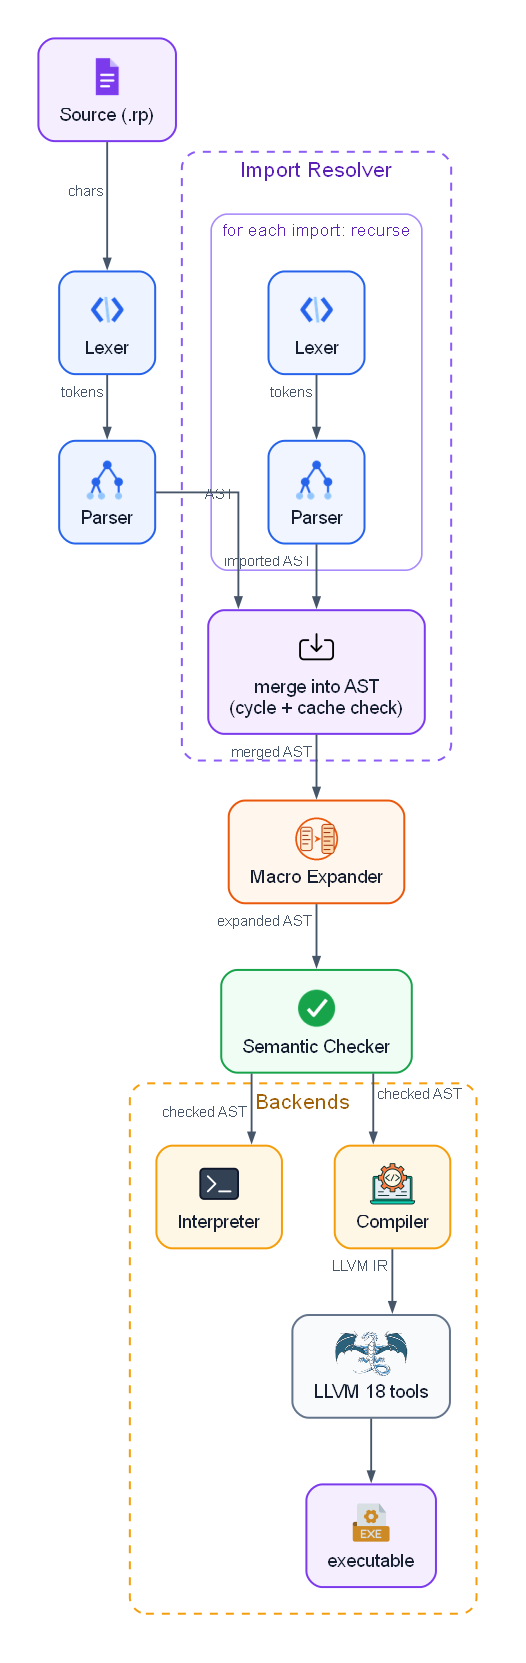
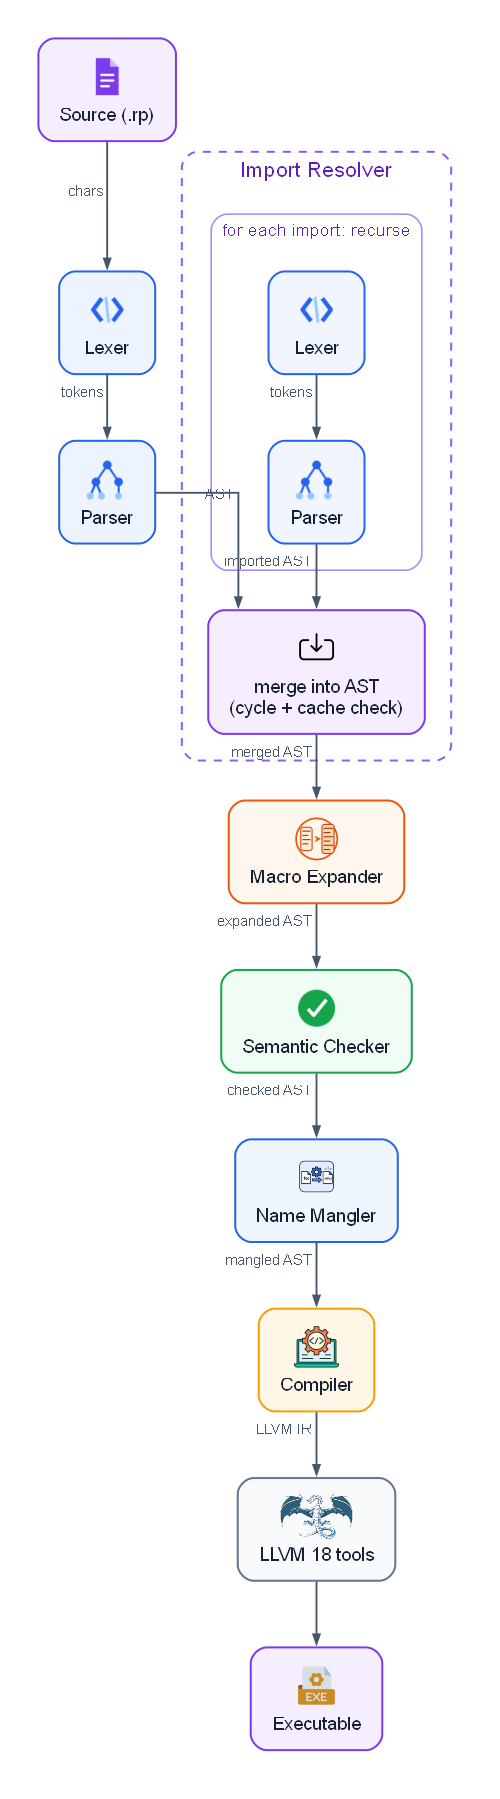
feat: updated compiler pipeline diagram

diff --git a/docs/diagram/generate_diagram.py b/docs/diagram/generate_diagram.py
@@ -77,10 +77,7 @@ with graph.subgraph(name="cluster_import") as import_cluster:
         penwidth="1.5",
         margin="20",
     )
-    import_cluster.attr(
-        "node",
-        fontname="Arial",
-    )
+    import_cluster.attr("node", fontname="Arial")
 
     with import_cluster.subgraph(name="cluster_recursive") as recursive:
         recursive.attr(
@@ -126,29 +123,27 @@ icon_node(
     "#16A34A",
 )
 
+icon_node(
+    graph,
+    "name_mangler",
+    "name_mangler",
+    "Name Mangler",
+    "#EFF6FF",
+    "#2563EB",
+)
+
 graph.edge("merge", "macro_expander", xlabel=" merged AST ")
 graph.edge("macro_expander", "checker", xlabel=" expanded AST ")
+graph.edge("checker", "name_mangler", xlabel=" checked AST ")
+graph.edge("name_mangler", "compiler", xlabel=" mangled AST ")
 
 with graph.subgraph(name="cluster_backends") as backends:
     backends.attr(
-        label="  Backends  ",
-        color="#F59E0B",
-        fontcolor="#A16207",
-        fontsize="16",
-        fontname="Arial",
-        style="rounded,dashed",
-        penwidth="1.5",
-        margin="20",
+        label="",
+        style="invis",
+        margin="0",
     )
 
-    icon_node(
-        backends,
-        "interpreter",
-        "interpreter",
-        "Interpreter",
-        "#FFF7E6",
-        "#F59E0B",
-    )
     icon_node(
         backends,
         "compiler",
@@ -169,21 +164,13 @@ with graph.subgraph(name="cluster_backends") as backends:
         backends,
         "executable",
         "executable",
-        "executable",
+        "Executable",
         "#F5EEFF",
         "#7C3AED",
     )
 
     backends.edge("compiler", "llvm", xlabel=" LLVM IR ")
     backends.edge("llvm", "executable")
-
-    with backends.subgraph() as same_rank:
-        same_rank.attr(rank="same")
-        same_rank.node("interpreter")
-        same_rank.node("compiler")
-
-graph.edge("checker", "interpreter", xlabel=" checked AST ")
-graph.edge("checker", "compiler", xlabel=" checked AST ")
 
 graph.render(
     "compiler_pipeline",
